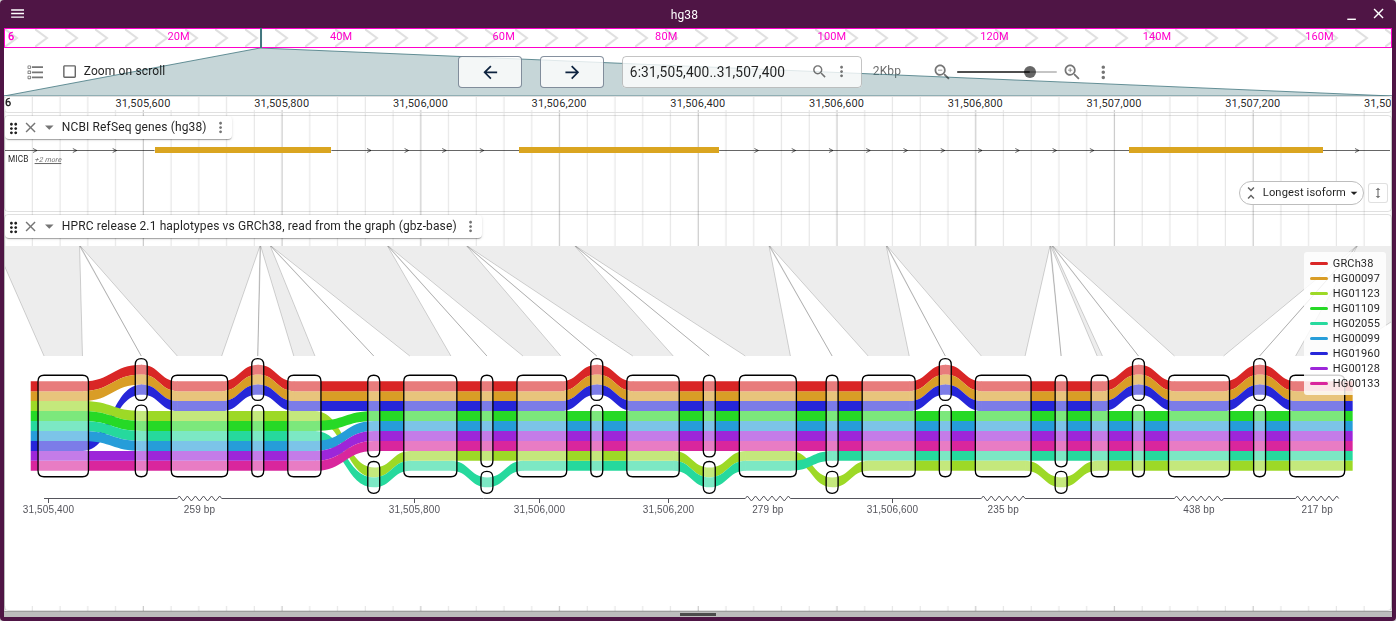
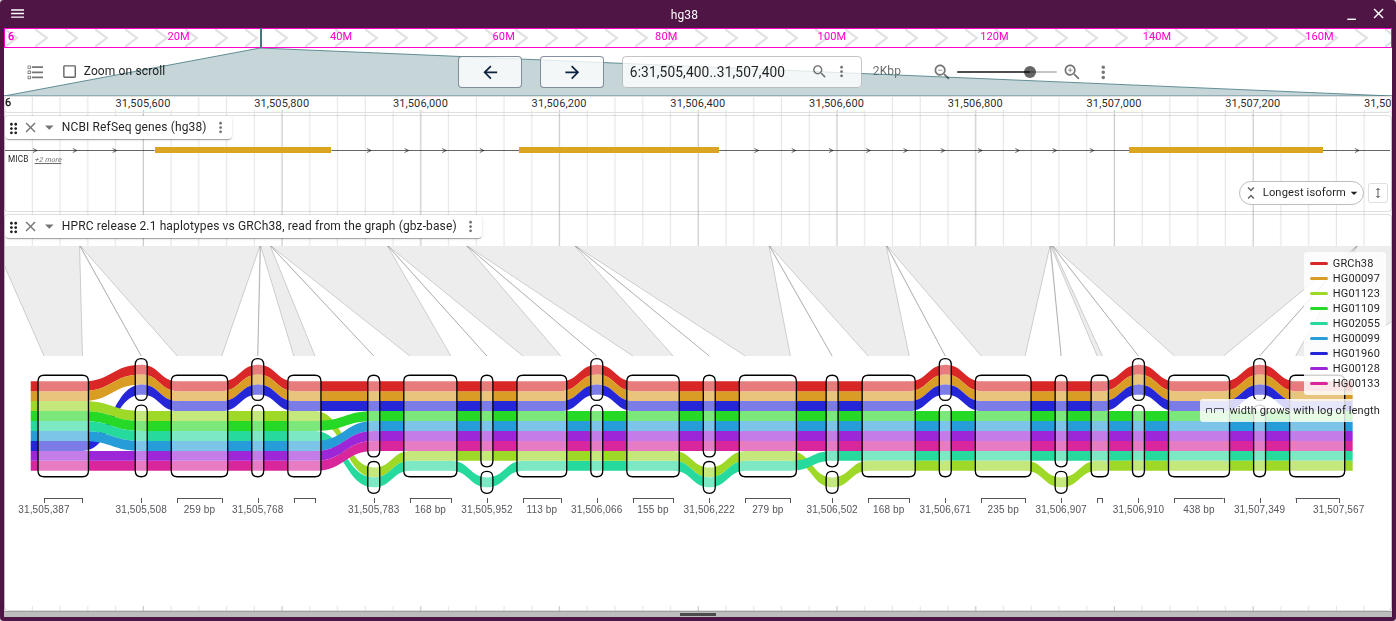
The reference-axis ruler keeps its round positions; figures reshot on the bracket ruler
The bracket ruler is the own axis's answer to log widths. On the reference
axis the boxes sit on their bp, so its ruler stays one line with ticks at
round positions. The legend row shortens to 'width grows with log of
length', which covered less of the tubes. tube_map is the e2e frame of both
standalone views; tube_map_micb and tube_map_micb_track are reshot from the
hosted demo.

Changed region(s): [[0.2464, 0.7955, 0.9857, 0.8261], [0.8625, 0.6425, 0.9857, 0.7037], [0.0, 0.7955, 0.2156, 0.8261]]

diff --git a/packages/core/src/tubeMap/axis.ts b/packages/core/src/tubeMap/axis.ts
@@ -89,6 +89,7 @@ export function rulerBoxes(byRefName: ReferenceBoxes) {
 
 const TICK_PX = 5
 const LABEL_GAP_PX = 10
+const TARGET_TICK_PX = 110
 // narrower than this a box draws as one tick rather than a bracket
 const MIN_BRACKET_PX = 3
 
@@ -102,6 +103,27 @@ interface Label {
   width: number
 }
 
+function niceStep(raw: number) {
+  const pow = 10 ** Math.floor(Math.log10(raw))
+  const m = raw / pow
+  return (m <= 1 ? 1 : m <= 2 ? 2 : m <= 5 ? 5 : 10) * pow
+}
+
+// In order, dropping any that would overlap one already placed
+function placeLabels(candidates: readonly Label[]) {
+  const placed: Label[] = []
+  for (const a of candidates) {
+    if (
+      placed.every(
+        b => Math.abs(a.at - b.at) >= (a.width + b.width) / 2 + LABEL_GAP_PX,
+      )
+    ) {
+      placed.push(a)
+    }
+  }
+  return placed.map(({ text, at }) => ({ text, at }))
+}
+
 export interface RulerMarks {
   // each box's span; the gaps between them stay blank, since the lane changes
   // drawn there cover no reference
@@ -110,14 +132,54 @@ export interface RulerMarks {
   labels: { text: string; at: number }[]
 }
 
+// On the reference axis the boxes sit on their bp, so one scale runs across
+// the ruler and its ticks fall on round positions.
+function scaleMarks(
+  boxes: readonly Box[],
+  x: (tx: number) => number,
+  width: number,
+  measure: (text: string) => number,
+): RulerMarks | undefined {
+  const first = boxes[0]
+  const last = boxes.at(-1)
+  if (!first || !last) {
+    return undefined
+  }
+  const from = x(first.x0)
+  const to = x(last.x1)
+  const bpSpan = last.bp1 - first.bp0
+  if (to <= from || bpSpan <= 0) {
+    return undefined
+  }
+  const step = niceStep((bpSpan / (to - from)) * TARGET_TICK_PX)
+  const ticks: number[] = []
+  const positions: Label[] = []
+  for (
+    let bp = Math.ceil(first.bp0 / step) * step;
+    bp <= last.bp1;
+    bp += step
+  ) {
+    const sx = Math.round(x(tubeX(boxes, bp))) + 0.5
+    if (sx >= 0 && sx <= width) {
+      ticks.push(sx)
+      const text = bp.toLocaleString('en-US')
+      positions.push({ text, at: sx, width: measure(text) })
+    }
+  }
+  return {
+    spans: [{ x0: from, x1: to }],
+    ticks,
+    labels: placeLabels(positions),
+  }
+}
+
 // On the own axis every box is as wide as the log of its length (tubemap-core's
 // compressed widths: 2 bp is 8 px, 100 bp 56, 1 kb 84, 22 kb 121), so no box is
 // to scale and no one scale runs across them. The ruler treats every box alike:
 // a bracket under it, a tick at each end, its length where that fits inside it,
 // and positions at box boundaries. Labels are placed in that order after the
-// two ends of what is on screen, and one that would overlap a placed one is
-// dropped.
-export function rulerMarks(
+// two ends of what is on screen.
+function boxMarks(
   boxes: readonly Box[],
   x: (tx: number) => number,
   width: number,
@@ -160,33 +222,41 @@ export function rulerMarks(
     position(first.box.bp0, first.s0),
     position(last.box.bp1, last.s1),
   ]
-  const placed: Label[] = []
-  const clear = (a: Label) =>
-    placed.every(
-      b => Math.abs(a.at - b.at) >= (a.width + b.width) / 2 + LABEL_GAP_PX,
-    )
-  for (const l of [...ends, ...lengths, ...boundaries]) {
-    if (clear(l)) {
-      placed.push(l)
-    }
-  }
   return {
     spans,
     ticks,
-    labels: placed.map(({ text, at }) => ({ text, at })),
+    labels: placeLabels([...ends, ...lengths, ...boundaries]),
   }
 }
 
-// Reference bp along the tubes: a bracket per box, lengths and boundaries
+export function rulerMarks(
+  boxes: readonly Box[],
+  x: (tx: number) => number,
+  width: number,
+  measure: (text: string) => number,
+  referenceAxis = false,
+) {
+  return (referenceAxis ? scaleMarks : boxMarks)(boxes, x, width, measure)
+}
+
+// Reference bp along the tubes: round positions on the reference axis, a
+// bracket per box on the own axis
 export function drawTubeMapRuler(
   ctx: CanvasRenderingContext2D,
   boxes: readonly Box[],
   frame: TubeMapFrame,
   top: number,
+  referenceAxis = false,
 ) {
   const { x, width, darkMode } = frame
   ctx.font = '10px sans-serif'
-  const marks = rulerMarks(boxes, x, width, text => ctx.measureText(text).width)
+  const marks = rulerMarks(
+    boxes,
+    x,
+    width,
+    text => ctx.measureText(text).width,
+    referenceAxis,
+  )
   if (!marks) {
     return
   }

diff --git a/src/GraphGenomeView/components/TubeMapOverlay.tsx b/src/GraphGenomeView/components/TubeMapOverlay.tsx
@@ -74,7 +74,13 @@ const TubeMapOverlay = observer(function TubeMapOverlay({
           )
           const boxes = model.tubeMapRulerBoxes
           if (boxes) {
-            drawTubeMapRuler(ctx, boxes, tubeFrame, frame.y(bounds.maxY) + 4)
+            drawTubeMapRuler(
+              ctx,
+              boxes,
+              tubeFrame,
+              frame.y(bounds.maxY) + 4,
+              model.layoutResult?.referenceAxis,
+            )
           }
         }
       }),
@@ -163,7 +169,7 @@ export const TubeMapLegend = observer(function TubeMapLegend({
       {logWidths ? (
         <div style={legendRowStyle}>
           <BracketSwatch />
-          <span>box width grows with the log of its length</span>
+          <span>width grows with log of length</span>
         </div>
       ) : null}
     </div>

diff --git a/packages/core/src/tubeMap/axis.test.ts b/packages/core/src/tubeMap/axis.test.ts
@@ -65,3 +65,19 @@ test('placed labels keep clear of each other', () => {
     expect(spans[i]![0]!).toBeGreaterThan(spans[i - 1]![1]!)
   }
 })
+
+test('on the reference axis the ruler is one line with ticks at round positions', () => {
+  // ten 100 bp boxes as wide as their bp, 20 px apart
+  const boxes = Array.from({ length: 10 }, (_, i) => ({
+    bp0: i * 100,
+    bp1: (i + 1) * 100,
+    x0: i * 120,
+    x1: i * 120 + 100,
+  }))
+  const marks = rulerMarks(boxes, identity, 2000, measure, true)!
+  expect(marks.spans).toEqual([{ x0: 0, x1: 1180 }])
+  expect(marks.labels.length).toBeGreaterThan(3)
+  for (const { text } of marks.labels) {
+    expect(Number(text.replaceAll(',', '')) % 100).toBe(0)
+  }
+})

diff --git a/docs/layouts.md b/docs/layouts.md
@@ -52,7 +52,9 @@ and Tube map need W or P lines, and Tube map on reference needs both.
   bp 56, 1 kb 84, 22 kb 121), so no box is to scale, and the legend says so. The
   ruler under the tubes treats every box alike: a bracket with a tick at each
   end, the box's length where it fits inside, and positions at box boundaries,
-  the ends of what is on screen first
+  the ends of what is on screen first. On the reference axis the boxes are to
+  scale, so its ruler is one line with round positions, and in a linear view the
+  view's own ruler is the axis
 - A box's outline fades below 12 px wide, so a zoomed-out cut shows its tubes
 - On the own axis the fit stops at 5 px tubes: a longer cut opens at its left
   end and you pan along it, as in sequenceTubeMap, or zoom out for the whole cut
